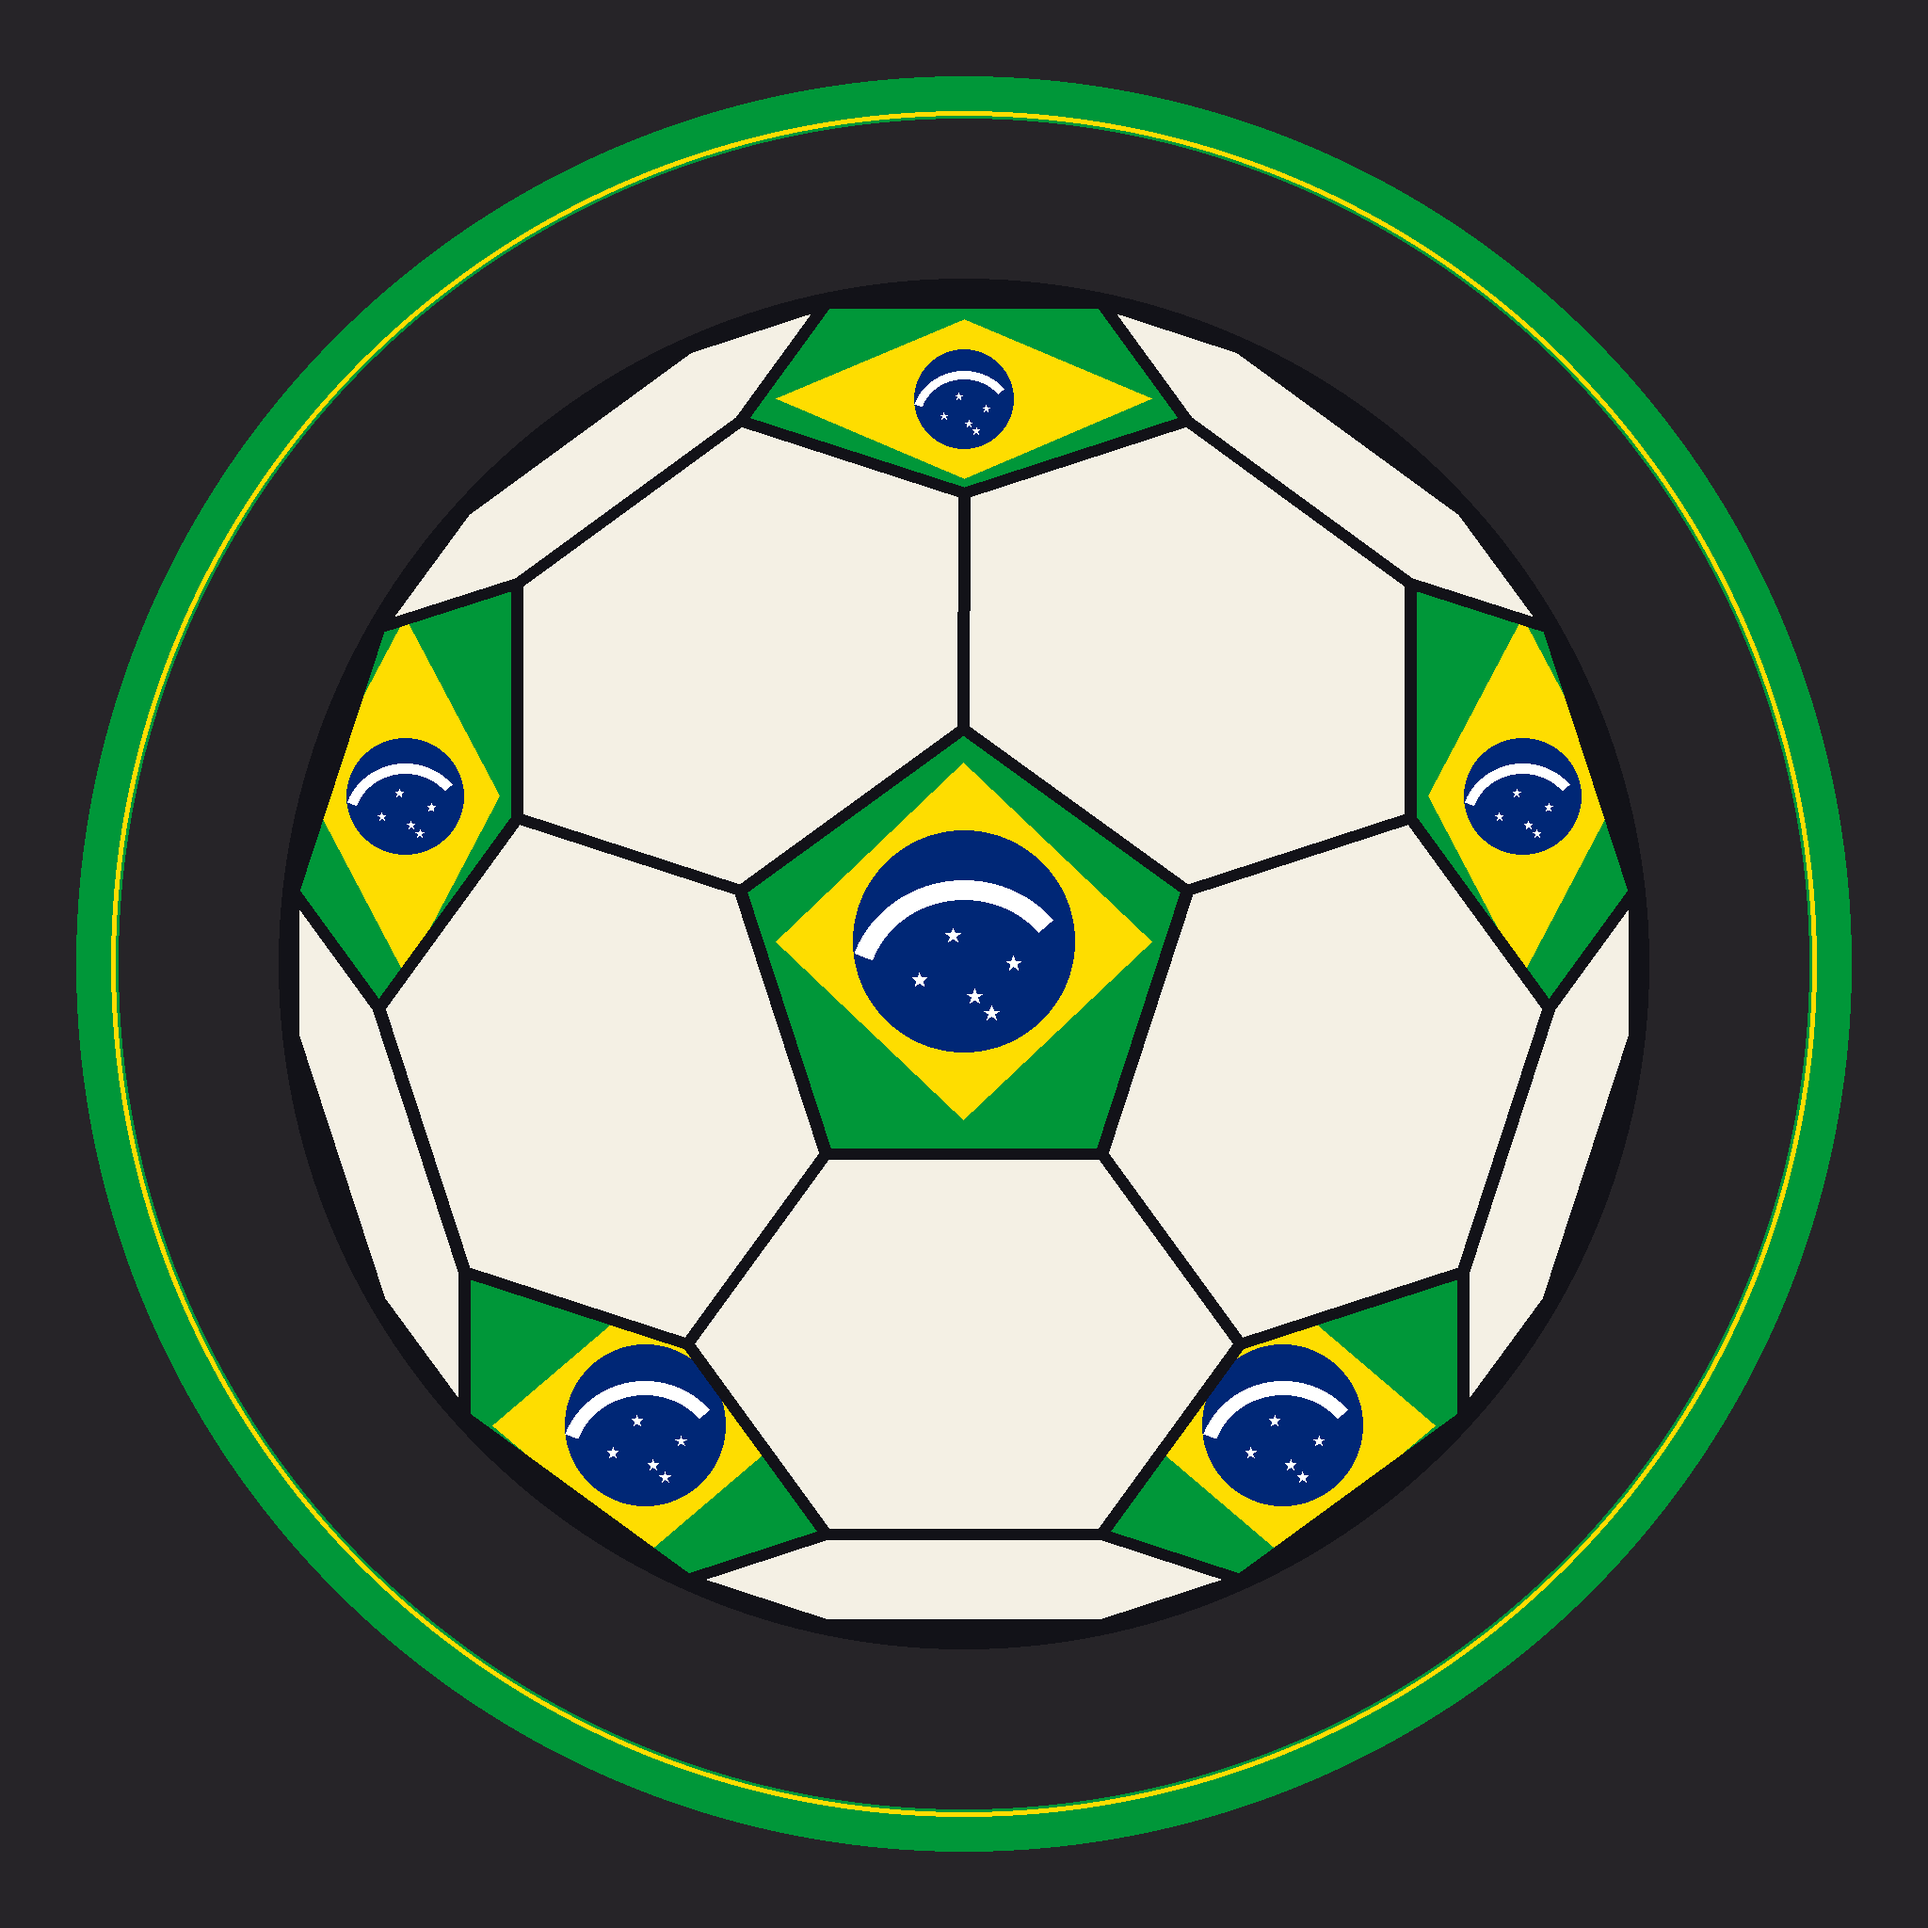
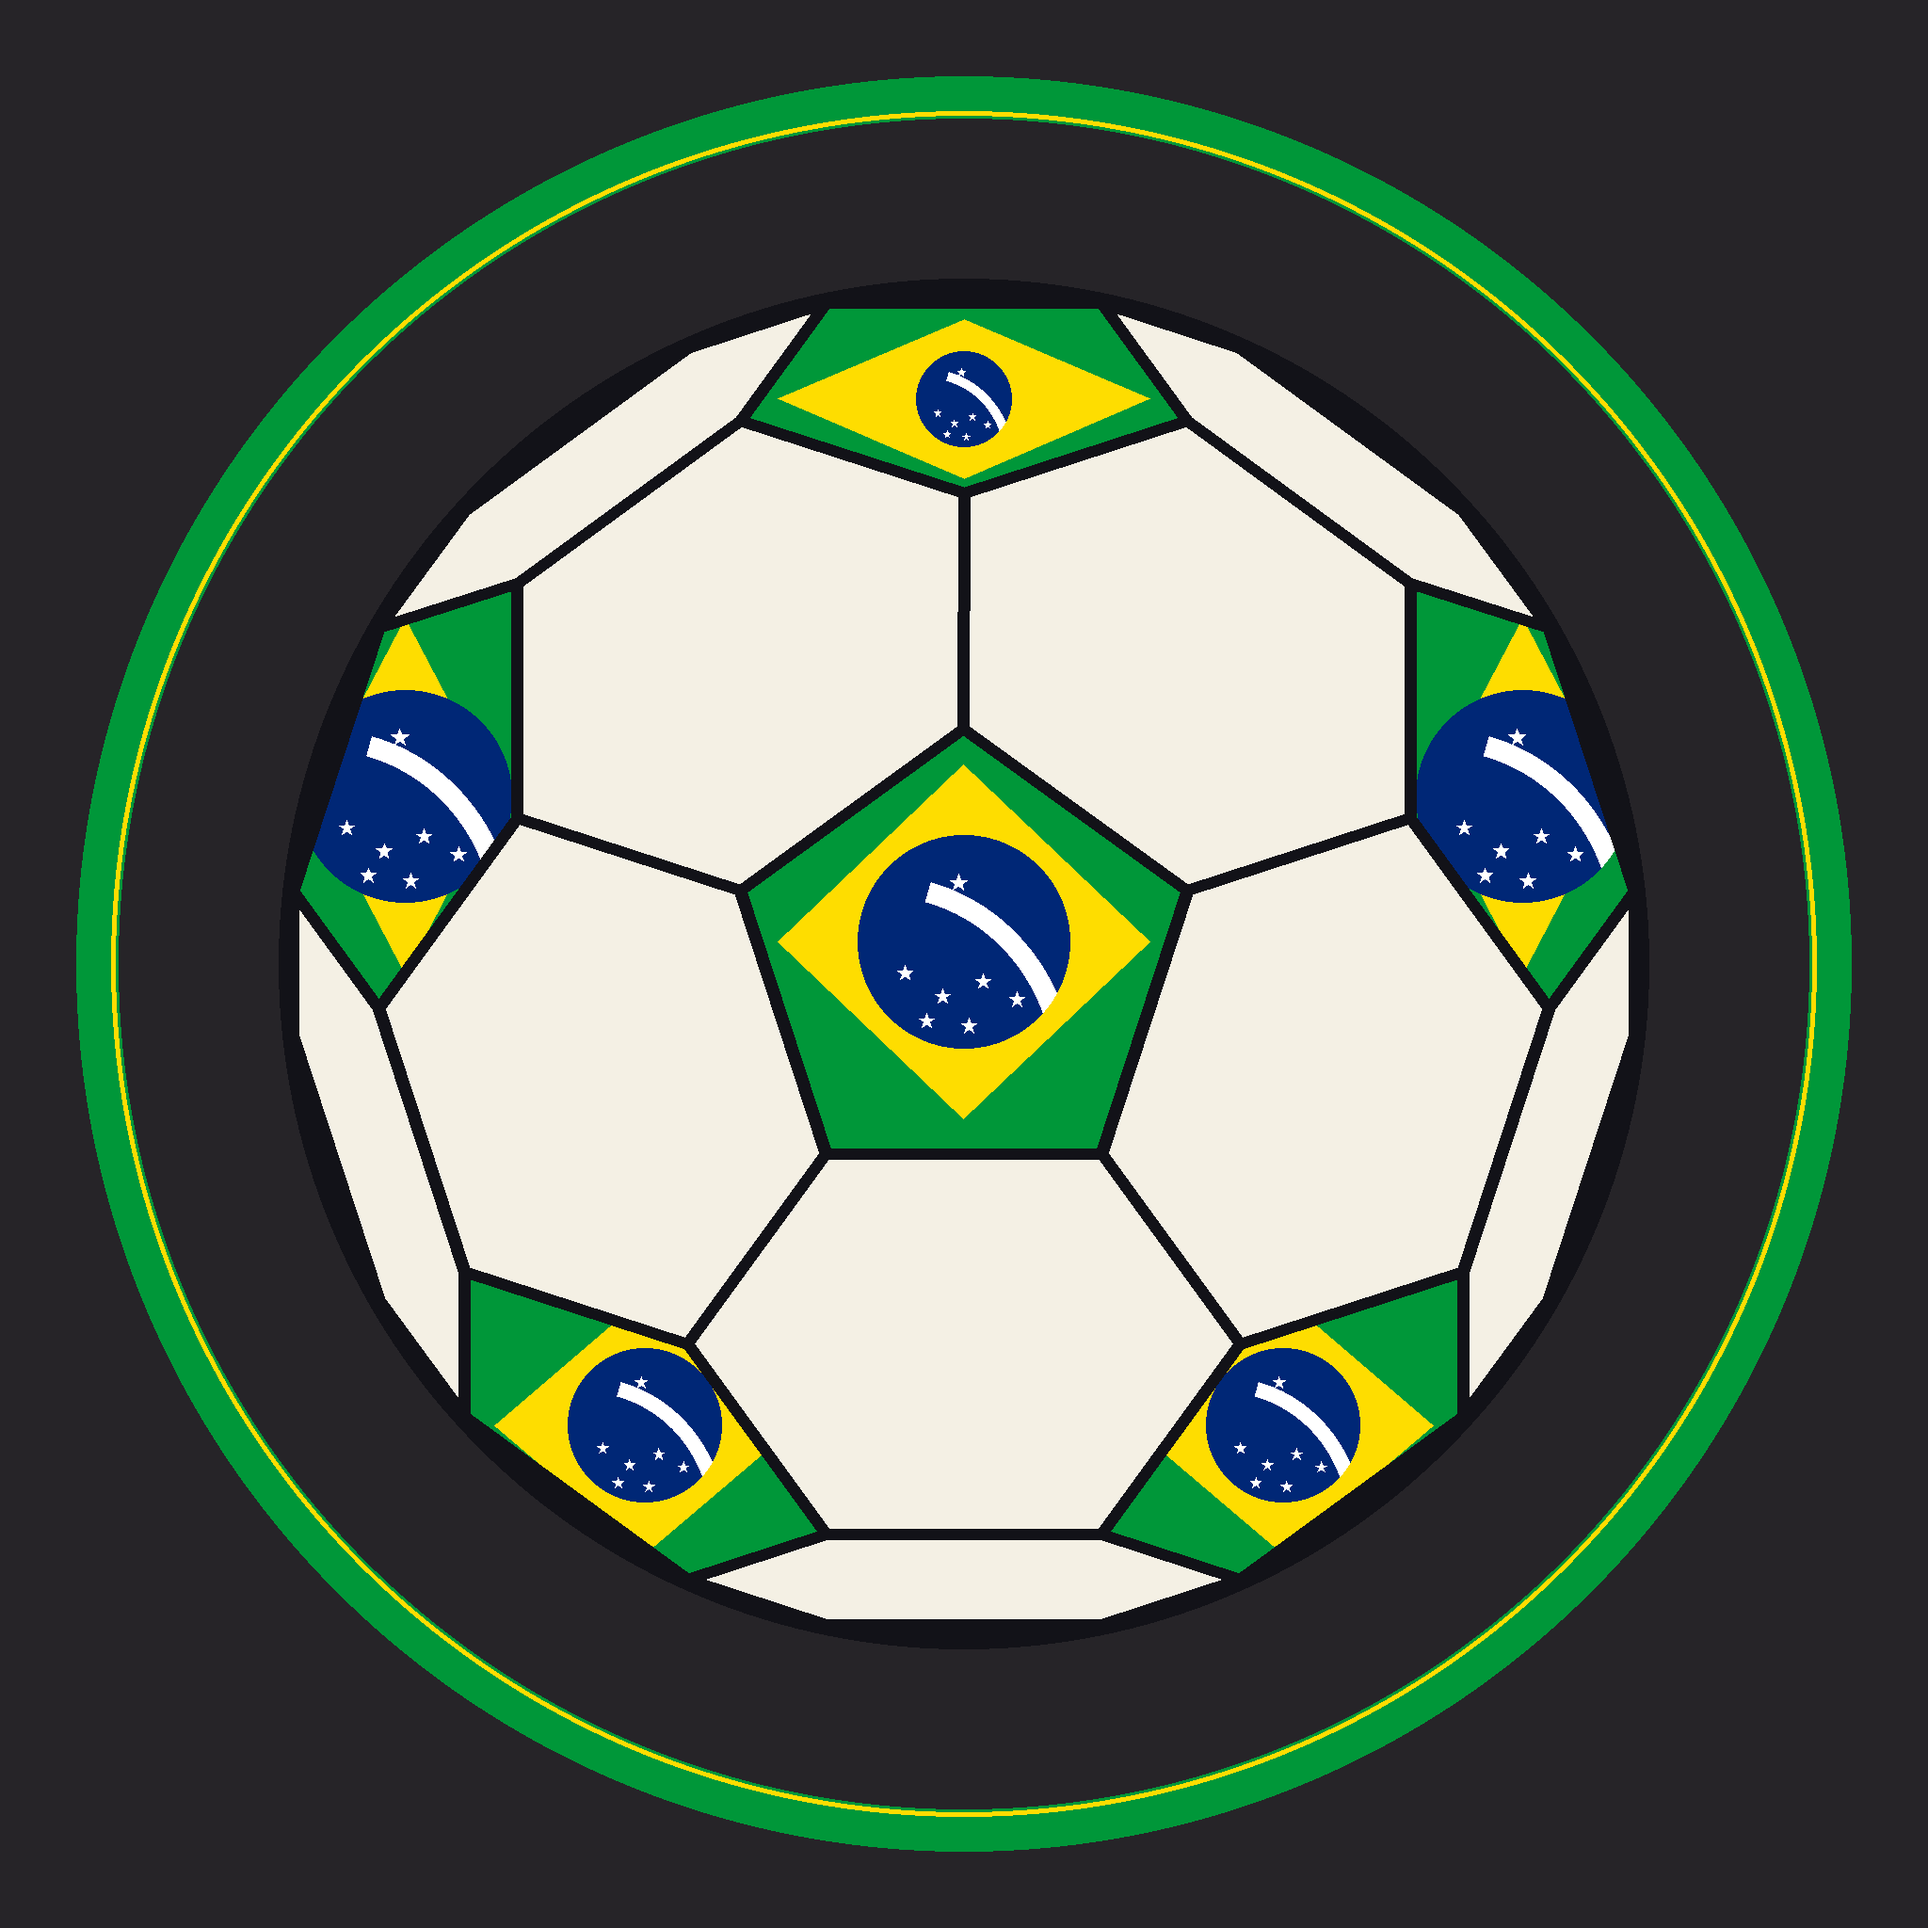
fix: drapeaux Canada/Brésil/Mexique fidèles
- Feuille d'érable 11 pointes avec échancrures profondes et tige, 3/4 du
  carré blanc. - Brésil : losange à 1/12 des bords, globe 0.5×hauteur,
  bande blanche découpée au cercle, étoile au-dessus de la bande.
- Mexique : aigle de profil sur cactus avec serpent et couronne de laurier.

https://claude.ai/code/session_011hU6yuR4dGRtyXL7mZFdwg

diff --git a/scripts/render_telstar_seed.py b/scripts/render_telstar_seed.py
@@ -92,55 +92,99 @@ def flag_germany(td, x0, y0, x1, y1):
 
 
 def _maple_leaf(td, cx, cy, s, color):
-    """Feuille d'érable stylisée (silhouette symétrique à 11 pointes)."""
-    half = [(0.00, -1.00), (0.10, -0.62), (0.32, -0.78), (0.26, -0.42),
-            (0.58, -0.52), (0.48, -0.22), (0.92, -0.26), (0.66, 0.06),
-            (0.84, 0.30), (0.40, 0.26), (0.46, 0.62), (0.12, 0.40),
-            (0.06, 0.42)]
-    pts = half + [(0.04, 1.00), (-0.04, 1.00)] + [(-x, y) for x, y in reversed(half)]
+    """Feuille d'érable du drapeau canadien — silhouette fidèle à 11 pointes,
+    lobes pointus et échancrures profondes (demi-contour miroité + tige)."""
+    half = [(0.000, -1.000),                       # pointe sommitale
+            (0.060, -0.760), (0.260, -0.860),      # échancrure + lobe haut-droit
+            (0.190, -0.560), (0.450, -0.700),      # échancrure + lobe droit sup.
+            (0.360, -0.350), (0.755, -0.500),      # échancrure + grand lobe droit
+            (0.620, -0.180), (1.000, -0.220),      # échancrure + pointe latérale
+            (0.860,  0.080), (0.980,  0.180),      # creux + pointe basse latérale
+            (0.520,  0.260), (0.560,  0.460),      # échancrure + lobe bas-droit
+            (0.200,  0.320)]                       # vers la tige
+    stem = [(0.050, 0.360), (0.045, 0.980), (-0.045, 0.980), (-0.050, 0.360)]
+    pts = half + stem + [(-x, y) for x, y in reversed(half)]
     td.polygon([(cx + x * s, cy + y * s) for x, y in pts], fill=color)
 
 
 def flag_canada(td, x0, y0, x1, y1):
-    """Bandes rouge / blanc / rouge (1:2:1) + feuille d'érable rouge au centre."""
+    """Bandes rouge / blanc / rouge (1:2:1), feuille d'érable centrée occupant
+    ~3/4 de la hauteur du carré blanc (proportions du drapeau officiel)."""
     red, white = (216, 30, 5), (255, 255, 255)
     w = x1 - x0
     td.rectangle([x0, y0, x0 + w / 4, y1], fill=red)
     td.rectangle([x0 + w / 4, y0, x1 - w / 4, y1], fill=white)
     td.rectangle([x1 - w / 4, y0, x1, y1], fill=red)
-    _maple_leaf(td, (x0 + x1) / 2, (y0 + y1) / 2, (y1 - y0) * 0.30, red)
+    _maple_leaf(td, (x0 + x1) / 2, (y0 + y1) / 2, (y1 - y0) * 0.38, red)
 
 
 def flag_mexico(td, x0, y0, x1, y1):
-    """Bandes verticales vert / blanc / rouge + emblème aigle simplifié au centre."""
+    """Bandes verticales vert / blanc / rouge + aigle de profil sur cactus,
+    serpent au bec, couronne de laurier — silhouette fidèle simplifiée."""
     green, white, red = (0, 104, 71), (255, 255, 255), (206, 17, 38)
     w = (x1 - x0) / 3
     for k, col in enumerate([green, white, red]):
         td.rectangle([x0 + k * w, y0, x0 + (k + 1) * w, y1], fill=col)
-    # aigle stylisé brun-doré perché, ailes ouvertes (silhouette simple)
     cx, cy = (x0 + x1) / 2, (y0 + y1) / 2
-    s = (y1 - y0) * 0.16
-    brown = (107, 68, 35)
-    td.polygon([(cx - s, cy), (cx - s * 0.3, cy - s * 0.7), (cx, cy - s * 0.4),
-                (cx + s * 0.3, cy - s * 0.7), (cx + s, cy), (cx + s * 0.4, cy + s * 0.3),
-                (cx, cy + s * 0.7), (cx - s * 0.4, cy + s * 0.3)], fill=brown)
-    td.arc([cx - s, cy + s * 0.4, cx + s, cy + s * 1.1], 200, 340,
-           fill=(0, 104, 71), width=max(2, int(s * 0.18)))
+    s = (y1 - y0) * 0.20
+    brown, dark = (121, 78, 40), (74, 46, 22)
+    # corps de l'aigle de profil (tourné vers la gauche), aile relevée
+    body = [(cx - 0.55 * s, cy - 0.05 * s), (cx - 0.42 * s, cy - 0.42 * s),  # poitrail→tête
+            (cx - 0.62 * s, cy - 0.52 * s), (cx - 0.46 * s, cy - 0.56 * s),  # bec
+            (cx - 0.25 * s, cy - 0.62 * s),                                   # crâne
+            (cx + 0.10 * s, cy - 0.50 * s), (cx + 0.65 * s, cy - 0.80 * s),  # départ aile
+            (cx + 0.95 * s, cy - 0.45 * s), (cx + 0.70 * s, cy - 0.30 * s),  # plumes
+            (cx + 0.85 * s, cy - 0.05 * s), (cx + 0.55 * s, cy + 0.05 * s),  # bas d'aile
+            (cx + 0.70 * s, cy + 0.35 * s), (cx + 0.30 * s, cy + 0.30 * s),  # queue
+            (cx + 0.05 * s, cy + 0.55 * s), (cx - 0.20 * s, cy + 0.45 * s)]  # serres
+    td.polygon(body, fill=brown)
+    # serpent ondulé tenu au bec
+    td.line([(cx - 0.60 * s, cy - 0.50 * s), (cx - 0.85 * s, cy - 0.30 * s),
+             (cx - 0.62 * s, cy - 0.15 * s), (cx - 0.88 * s, cy + 0.02 * s)],
+            fill=dark, width=max(2, int(s * 0.10)), joint="curve")
+    # cactus sous les serres
+    td.rectangle([cx - 0.10 * s, cy + 0.50 * s, cx + 0.12 * s, cy + 0.95 * s], fill=green)
+    td.ellipse([cx - 0.30 * s, cy + 0.55 * s, cx - 0.06 * s, cy + 0.80 * s], fill=green)
+    td.ellipse([cx + 0.08 * s, cy + 0.52 * s, cx + 0.32 * s, cy + 0.77 * s], fill=green)
+    # couronne de laurier de part et d'autre
+    td.arc([cx - 1.05 * s, cy - 0.10 * s, cx - 0.30 * s, cy + 1.05 * s], 290, 110,
+           fill=green, width=max(2, int(s * 0.12)))
+    td.arc([cx + 0.30 * s, cy - 0.10 * s, cx + 1.05 * s, cy + 1.05 * s], 70, 250,
+           fill=green, width=max(2, int(s * 0.12)))
 
 
 def flag_brazil(td, x0, y0, x1, y1):
-    """Champ vert, losange or, cercle bleu avec bande blanche (sans texte)."""
+    """Proportions officielles : losange or à 1/12 des bords (presque pleine
+    largeur), globe bleu de diamètre ~0.5×hauteur, bande blanche incurvée."""
     green, gold, blue, white = (0, 151, 57), (254, 221, 0), (0, 39, 118), (255, 255, 255)
     td.rectangle([x0, y0, x1, y1], fill=green)
     cx, cy = (x0 + x1) / 2, (y0 + y1) / 2
-    w, h = (x1 - x0) * 0.42, (y1 - y0) * 0.42
+    fw, fh = x1 - x0, y1 - y0
+    # losange : marge officielle de 1/12 de la largeur sur chaque bord
+    w, h = fw * (0.5 - 1 / 12), fh * (0.5 - 1 / 12)
     td.polygon([(cx, cy - h), (cx + w, cy), (cx, cy + h), (cx - w, cy)], fill=gold)
-    r = min(w, h) * 0.62
+    # globe : diamètre = 0.5 × hauteur du drapeau
+    r = fh * 0.25
     td.ellipse([cx - r, cy - r, cx + r, cy + r], fill=blue)
-    td.arc([cx - r * 1.05, cy - r * 0.55, cx + r * 1.05, cy + r * 1.45], 200, 320,
-           fill=white, width=max(2, int(r * 0.18)))
-    for dx, dy in [(-0.4, 0.35), (0.1, 0.5), (0.45, 0.2), (-0.1, -0.05), (0.25, 0.65)]:
-        _star(td, cx + dx * r, cy + dy * r, r * 0.07, white)
+    # bande blanche incurvée, découpée au globe (jamais hors du cercle)
+    band_w = max(3, int(r * 0.20))
+    im = td._image
+    overlay = Image.new("RGB", im.size, (0, 0, 0))
+    od = ImageDraw.Draw(overlay)
+    od.arc([cx - 2.6 * r, cy - 0.62 * r, cx + 1.04 * r, cy + 3.2 * r], 285, 357,
+           fill=white, width=band_w)
+    mask = Image.new("L", im.size, 0)
+    md = ImageDraw.Draw(mask)
+    md.ellipse([cx - r, cy - r, cx + r, cy + r], fill=255)
+    band_mask = overlay.convert("L").point(lambda v: 255 if v > 10 else 0)
+    from PIL import ImageChops
+    final_mask = ImageChops.multiply(mask, band_mask)
+    im.paste(white, (0, 0), final_mask)
+    # étoiles : une au-dessus de la bande, le reste en dessous (esprit du vrai)
+    _star(td, cx - 0.05 * r, cy - 0.55 * r, r * 0.085, white)
+    for dx, dy in [(-0.55, 0.30), (-0.20, 0.52), (0.18, 0.38), (0.50, 0.55),
+                   (-0.35, 0.75), (0.05, 0.80)]:
+        _star(td, cx + dx * r, cy + dy * r, r * 0.075, white)
 
 
 FLAGS["england"] = (flag_england, FLAGS["england"][1])
